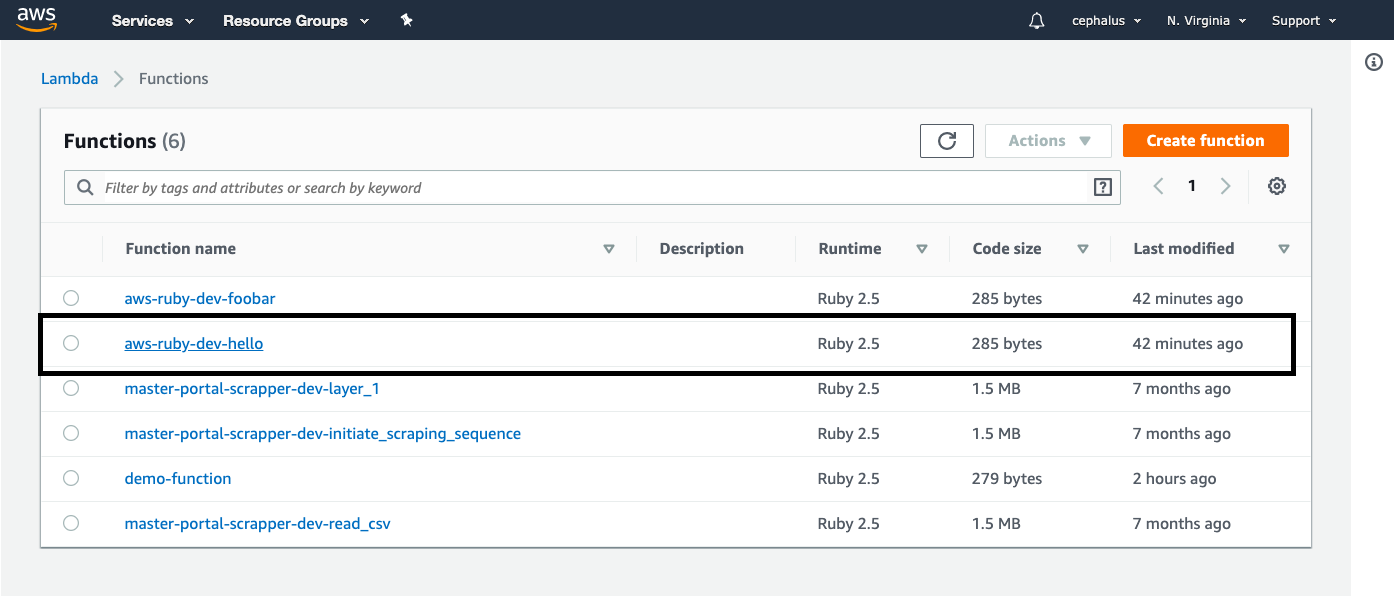
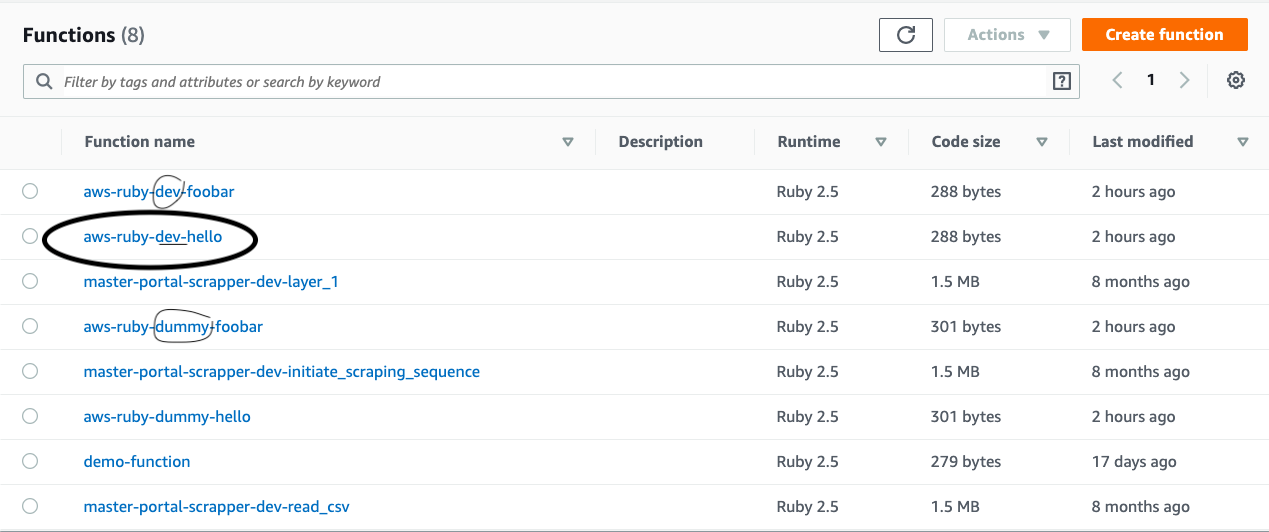
feat(serverless-deployment): add stages to config file

diff --git a/domains/engineering/efficient/deployment.md b/domains/engineering/efficient/deployment.md
@@ -107,7 +107,7 @@ grand_parent: Engineering
 
 1. Prerequisites - aws credentials must exist in `~/.aws/credentials` or a path which needs to be referred when the application is deployed. Here is how you can [manage aws credentials](https://awesome.commutatus.com/domains/engineering/secure/aws-credentials.html){:target="_blank"}
 
-2. An AWS CloudFormation template is created from the `serverless.yml` file. In case a stack has not been created then it would be created upon deployment using only s3 resources where all the code will be zipped and stored.
+2. An AWS CloudFormation template is created from the `serverless.yml` file. In case a stack has not been created then it would be created when a deployement is requested, using only s3 resources where all the code will be zipped and stored.
 
     ```
       service: aws-ruby # NOTE: update this with your service name
@@ -136,4 +136,6 @@ grand_parent: Engineering
   
     [![aws lambda console](/assets/images/aws-lambda-console.png)](/assets/images/aws-lambda-console.png)
 
-    *The name of the service is appended before the function name as in the picture and the yaml file. This service name is editable.*
+    *The name of the service is appended before the function name as in the picture and the yaml file. This service name is editable. The stage of the function is also part of the name in the list.*
+
+4. Serverless let's you deploy functions on different `stages`. This is analogous to environments (test/staging/production). You can have a different set of environment variables (or stage variables) for each such stage. The deploy and invoke command both accept the `stage` parameter for example - `sls deploy --stage dummy --aws-profile private`  and `sls invoke --function hello --stage dummy --aws-profile private` . The stages have been highlighted on the image above. Environment variables can be managed by configuring the yaml file; [refer the docs here](https://serverless.com/framework/docs/providers/aws/guide/variables/){:target="_blank"}.
